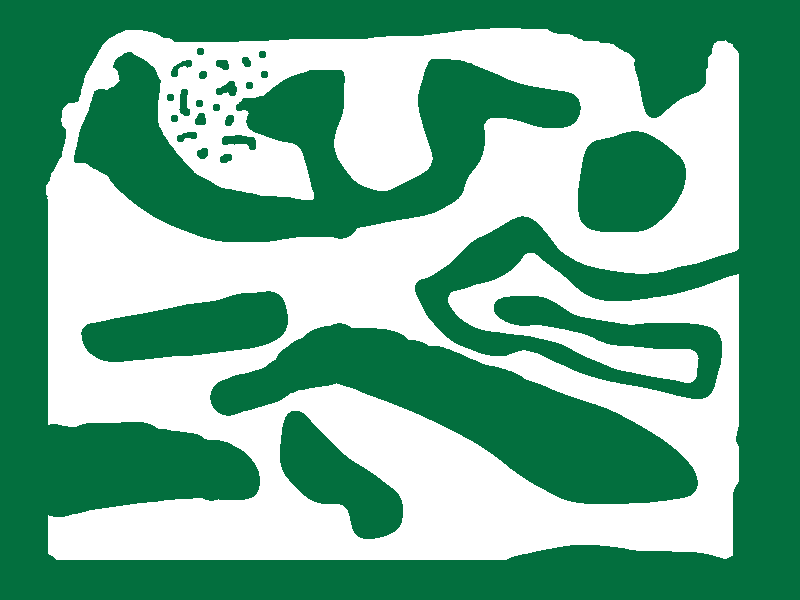
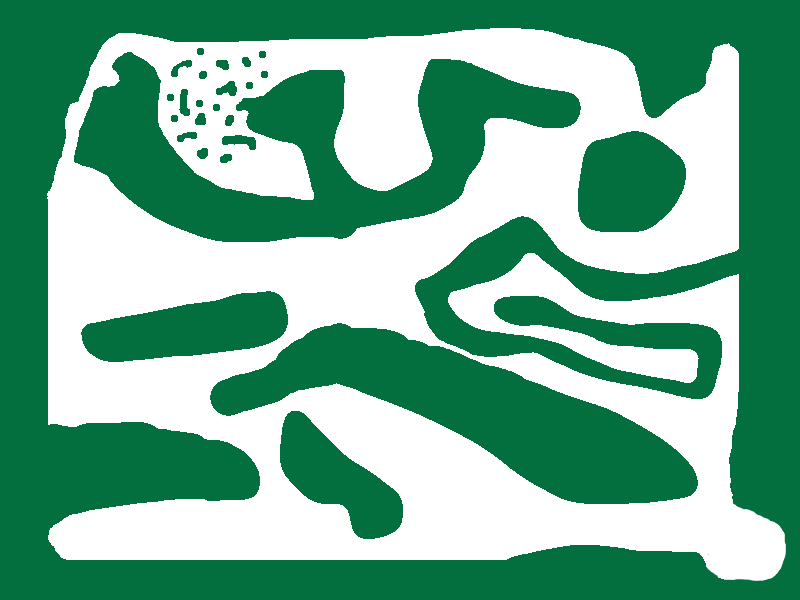
backup

diff --git a/src/Game/level.ts b/src/Game/level.ts
@@ -107,9 +107,9 @@ export class level {
     level.home1 = createHome(580, 210, 30);
     level.food1 = createFood(1125, 820, 30, 50);
     level.food2 = createFood(520, 420, 25, 50);
-    level.food2 = createFood(140, 320, 25, 50);
-    level.food2 = createFood(140, 820, 25, 50);
-    level.food3 = createFood(410, 260, 30, 10);
+    level.food2 = createFood(130, 320, 25, 50);
+    level.food2 = createFood(140, 805, 25, 50);
+    level.food3 = createFood(425, 260, 30, 10);
     level.food4 = createFood(580, 110, 30, 10);
     level.food5 = createFood(1070, 320, 20, 20);
     level.food5 = createFood(1010, 547, 20, 5000);
@@ -156,7 +156,7 @@ function createFood(xPos: number, yPos: number, radius: number, amount: number):
     text: new PIXI.Text(0, {
       fontFamily: 'Verdana',
       fontSize: 16,
-      fill: 0x101010,
+      fill: 0xffffff,
       align: 'center',
     }),
     claim: () => {
@@ -179,7 +179,7 @@ function createFood(xPos: number, yPos: number, radius: number, amount: number):
   food.sprite.height = radius * 2;
   food.sprite.x = xPos;
   food.sprite.y = yPos;
-  food.sprite.tint = 0xa0a0c0;
+  food.sprite.tint = 0xa01030;
   food.text.anchor.set(0.5, 0.5);
   food.sprite.addChild(food.text);
   food.text.text = (Math.round(food.amount * 100) / 100).toFixed(1);

diff --git a/src/Components/GameLoader/index.tsx b/src/Components/GameLoader/index.tsx
@@ -29,7 +29,7 @@ function GameLoader(props: any): JSX.Element {
       sprites.antDefault.texture.baseTexture.scaleMode = PIXI.SCALE_MODES.LINEAR;
 
       sprites.level1Background = new PIXI.Sprite(resources.level1Background.texture);
-      sprites.level1Background.texture.baseTexture.scaleMode = PIXI.SCALE_MODES.NEAREST;
+      sprites.level1Background.texture.baseTexture.scaleMode = PIXI.SCALE_MODES.LINEAR;
 
       sprites.homeIcon = new PIXI.Sprite(resources.homeIcon.texture);
       sprites.homeIcon.texture.baseTexture.scaleMode = PIXI.SCALE_MODES.LINEAR;

diff --git a/src/Game/game.ts b/src/Game/game.ts
@@ -88,7 +88,7 @@ class game {
     const gameCanvas = document.getElementById('gameCanvas') as HTMLCanvasElement;
     if (!gameCanvas) throw new Error('gameCanvas not found');
 
-    PIXI.settings.SCALE_MODE = PIXI.SCALE_MODES.NEAREST;
+    PIXI.settings.SCALE_MODE = PIXI.SCALE_MODES.LINEAR;
     PIXI.settings.PREFER_ENV = PIXI.ENV.WEBGL2;
 
     this.app = new PIXI.Application({
